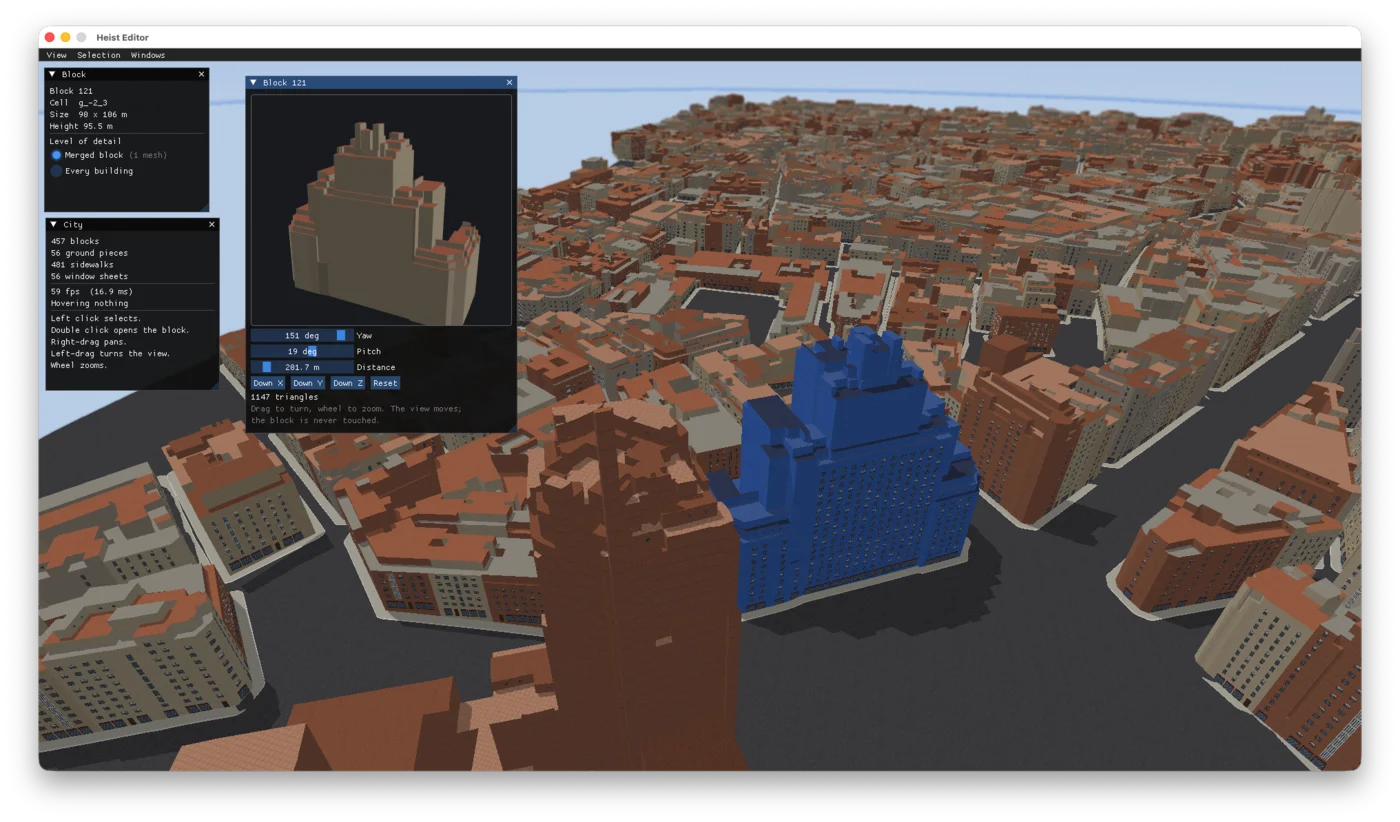
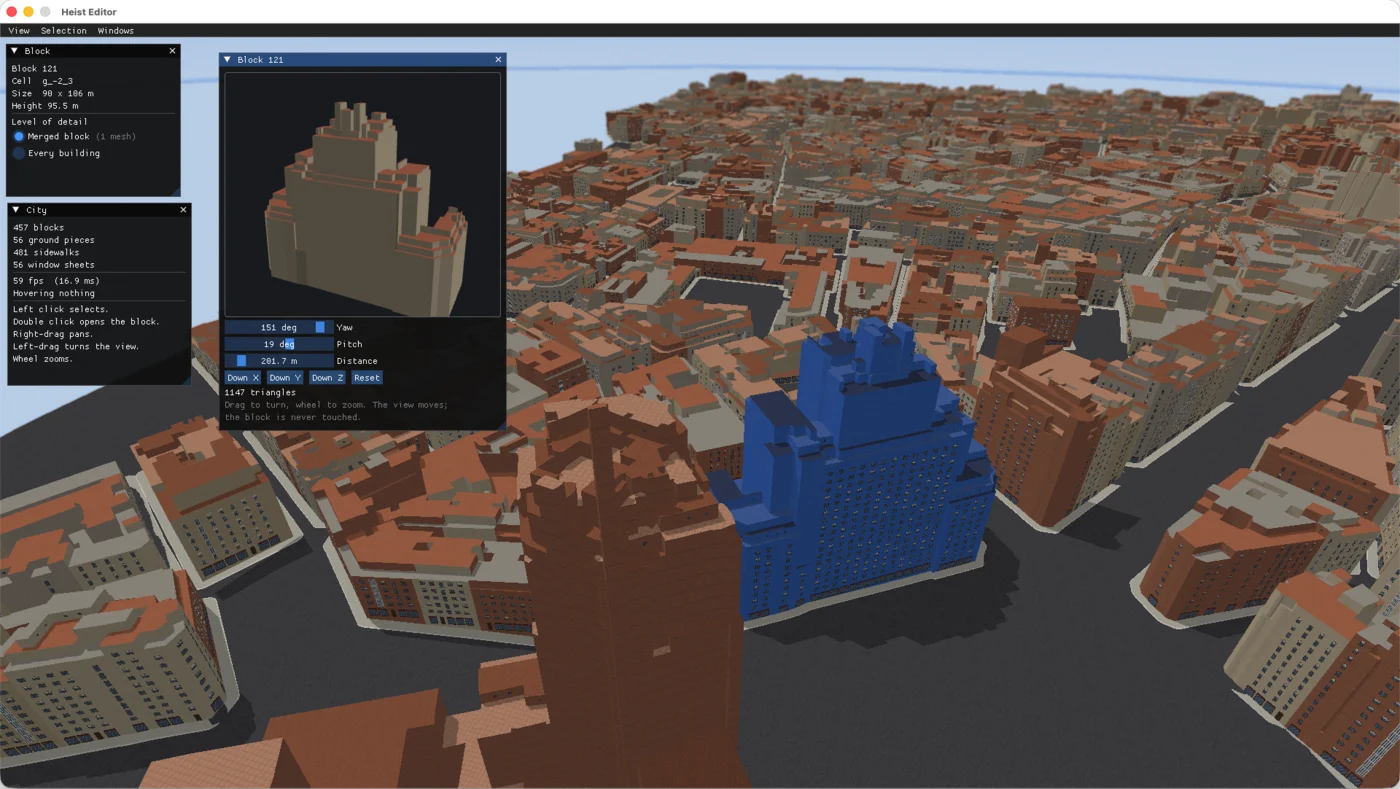
fix: trim the okinawa screenshot and reword around it

diff --git a/web/source/_posts/okinawa.md b/web/source/_posts/okinawa.md
@@ -56,13 +56,9 @@ live in their own repositories and pull it in as a dependency.
 
 [![A city of several hundred blocks seen from above, with one building selected and panels showing its size and the frame rate](editor.webp)](editor.webp)
 
-A level editor built on it, holding a city of 457 blocks at 59 frames per
-second, with one of them selected and spinning in its own preview window.
+A level editor built on it, holding a city of 457 blocks at a steady 60 frames
+per second, with one of them selected and spinning in its own preview window.
 {.caption}
 
-The other one is [a viewer for Doom's level files](/doom-tools/), which was the
-first thing to use the engine for anything real.
-
-The [documentation site](https://okinawa-dev.github.io/okinawa/) is generated by
-a static site generator written in C++ for the occasion, which seemed a
-reasonable thing to do at the time.
+Of those, [a viewer for Doom's level files](/doom-tools/) was the first to use
+the engine for anything real.
